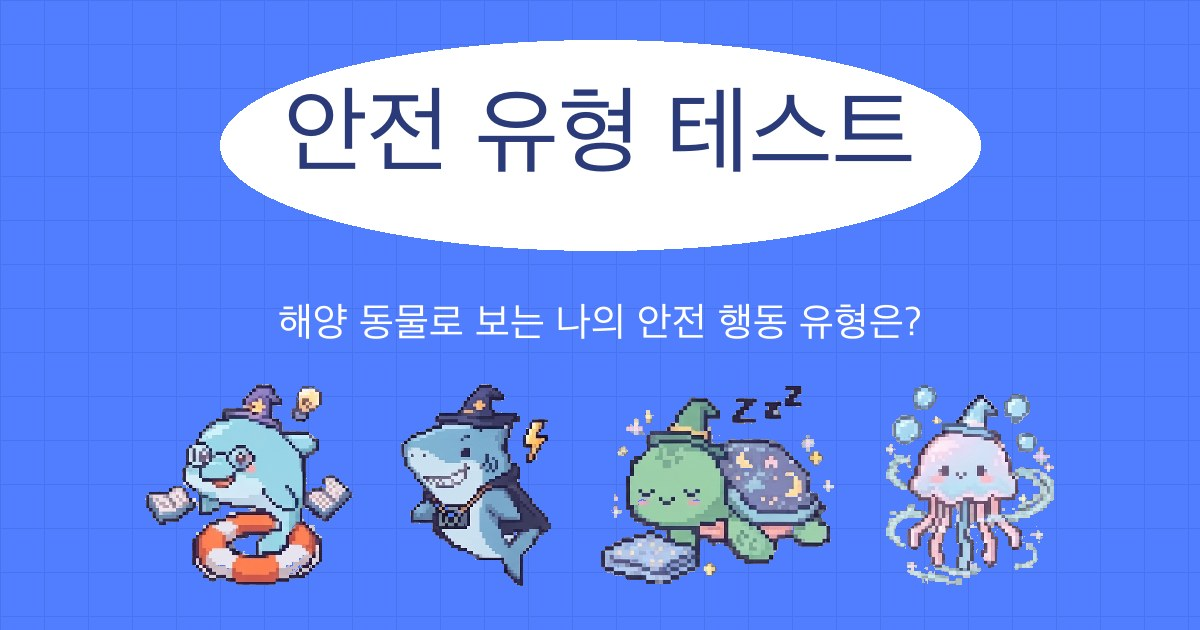
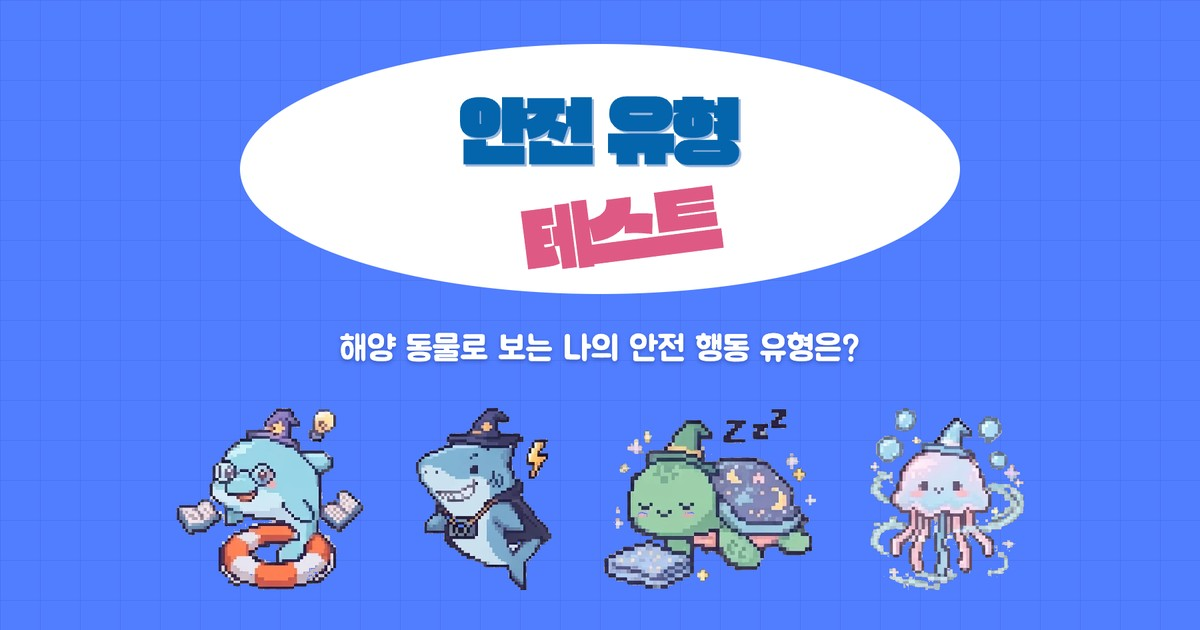
OG 썸네일 브랜드 톤으로 교체, 다시하기 버그 수정(공유링크 후 결과에서 못 나오는 문제)

diff --git a/index.html b/index.html
@@ -359,7 +359,7 @@
         </button>
       </div>
     </div>
-    <button class="btn" onclick="location.reload()">다시 하기</button>
+    <button class="btn" onclick="restart()">다시 하기</button>
   </section>
 
 </div>
@@ -616,6 +616,9 @@ loadCount();
     setTimeout(function(){ mo.disconnect(); }, 15000);
   }catch(e){}
 })();
+
+/* 다시 하기: ?type= 등 쿼리 제거하고 깨끗한 메인으로 */
+function restart(){ location.href = location.origin + location.pathname; }
 
 /* ================= 공유 ================= */
 // 현재 화면에 맞는 공유 URL: 결과 화면이면 ?type=유형 붙임
